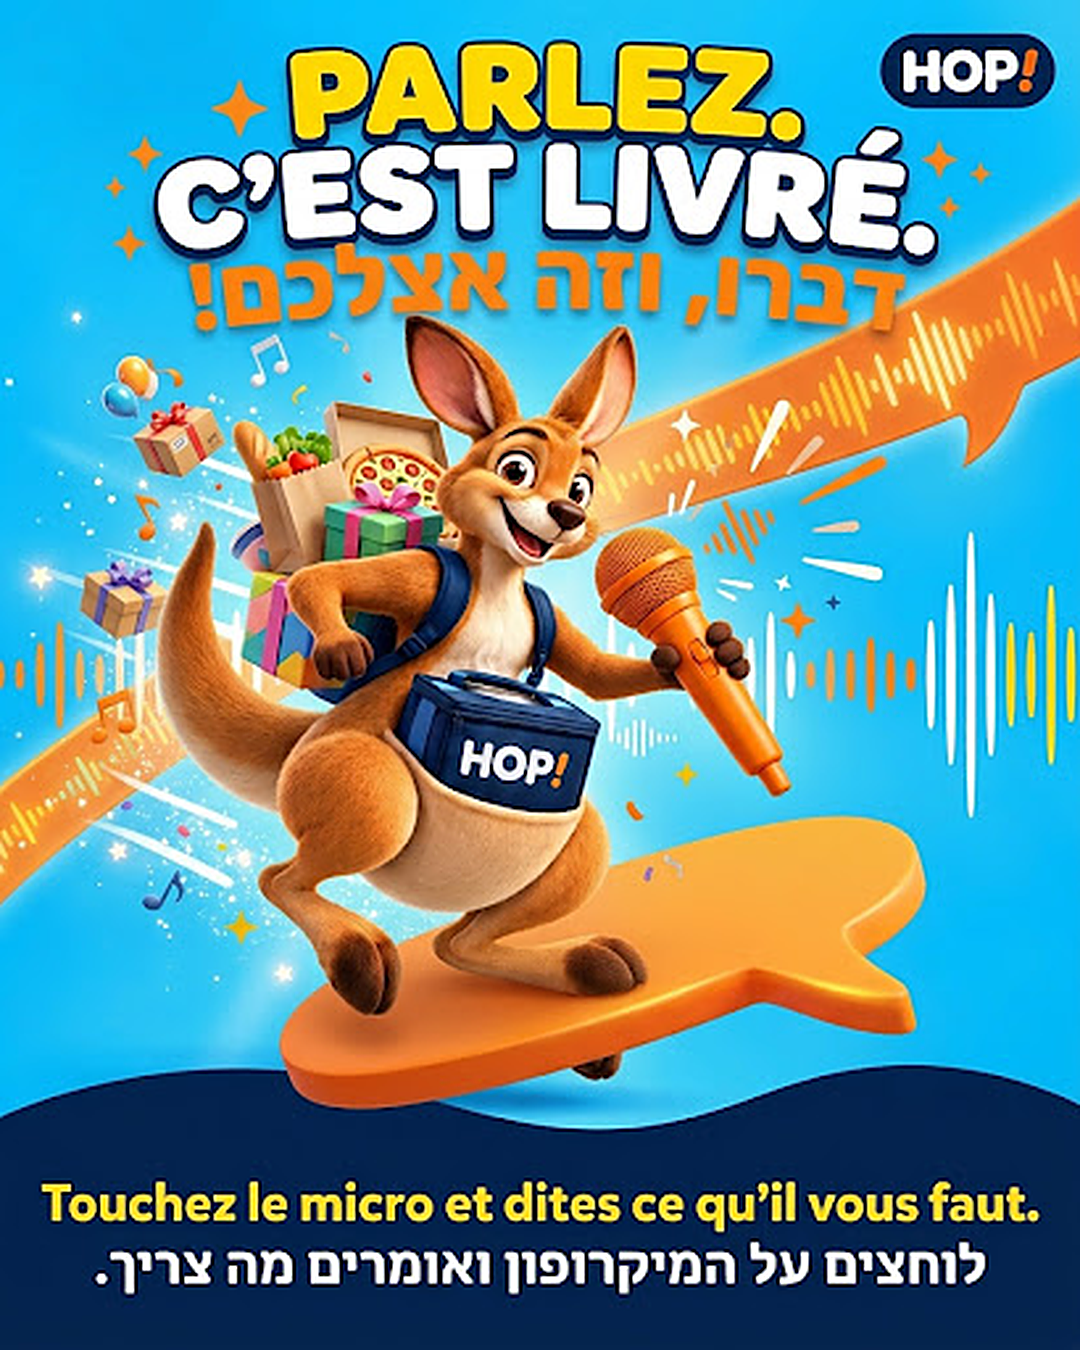
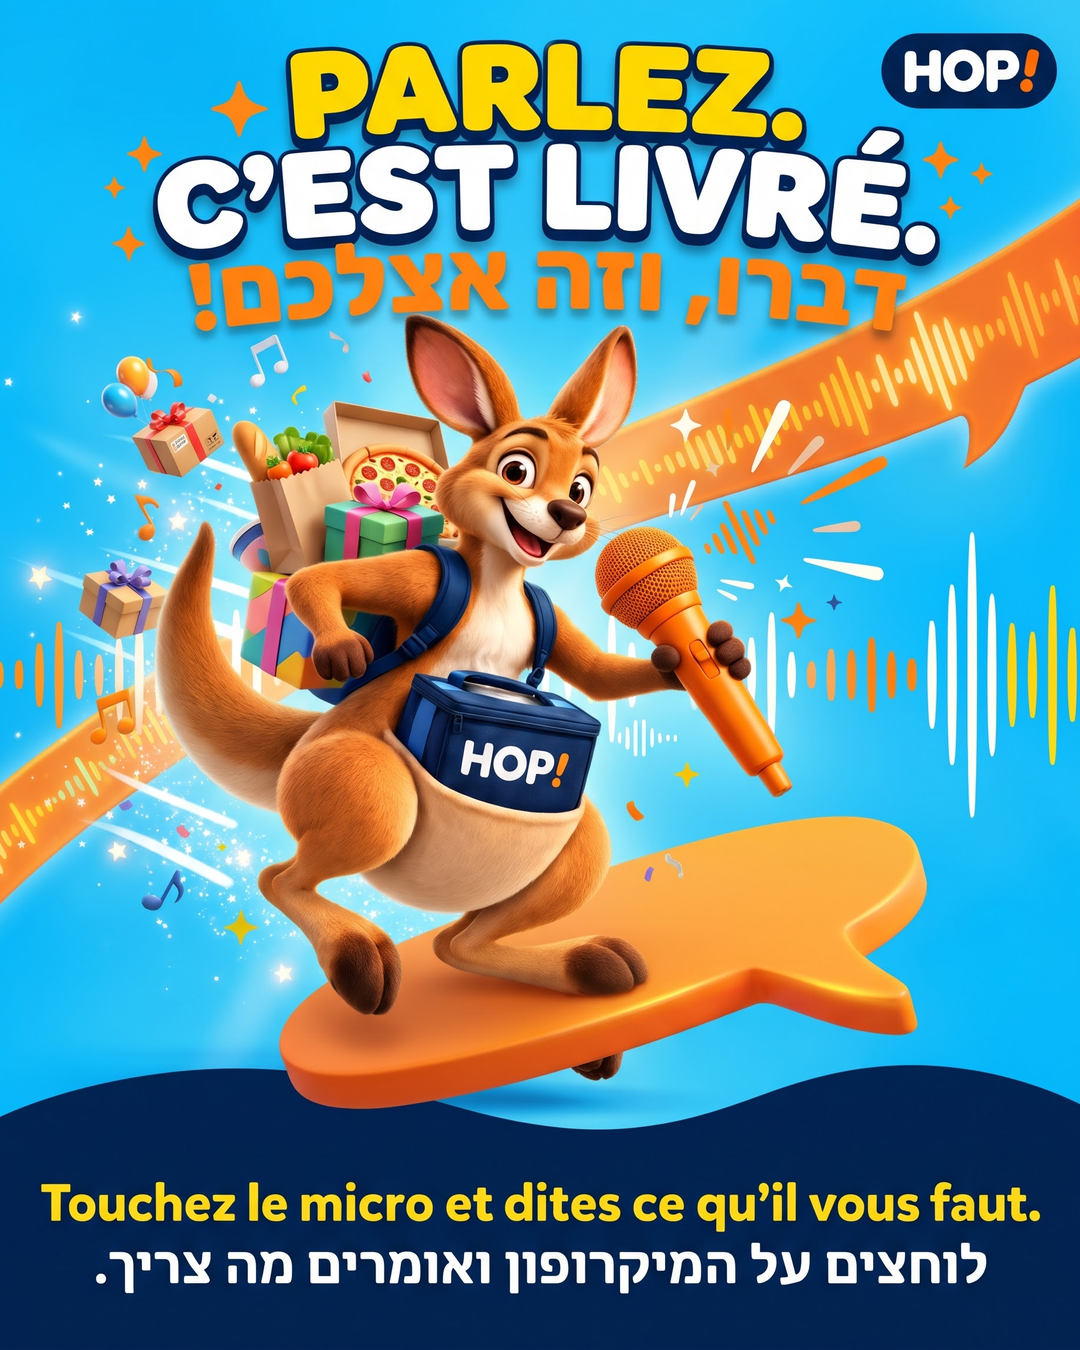
Kit : Parlez c'est livré en grand format + version violette (hébreu corrigé)
Claude-Session: https://claude.ai/code/session_01HjyNE8jb2CVL8HhFoocmFa

diff --git a/livraison/kit.js b/livraison/kit.js
@@ -614,6 +614,7 @@ const CAPS = {
   "hoppy-vocal": {
     fr: `🎙 Parlez. C'est livré.\nTouchez le micro dans l'appli et dites ce qu'il vous faut : « une pizza pour ce soir », « du lait et du pain »… on s'occupe du reste.\n🛵 Livraison partout à Netanya, dès ${delFr} en ville · 📍 Suivi en direct\n👉 ${APP_URL}\n${TAGS.fr} #commandevocale`,
     he: `🎙 דברו, וזה אצלכם!\nלוחצים על המיקרופון באפליקציה ואומרים מה צריך: "פיצה להערב", "חלב ולחם"… ואנחנו דואגים לשאר.\n🛵 משלוחים בכל נתניה, החל מ־${delFr} בעיר · 📍 מעקב בזמן אמת\n👈 ${APP_URL}?lang=he\n${TAGS.he}` },
+  get "hoppy-vocal2"() { return this["hoppy-vocal"]; },
   "hoppy-netanya": {
     fr: `🦘 On livre tout Netanya !\nCourses, restos, pharmacie, colis, cadeaux… Hoppy apporte tout, au plus vite.\n🛵 Dès ${delFr} en ville · 📍 Suivi en direct\n👉 ${APP_URL}\n${TAGS.fr}`,
     he: `🦘 מביאים לכם הכול בנתניה!\nקניות, מסעדות, בית מרקחת, חבילות, מתנות… הופי מביא הכול, הכי מהר.\n🛵 החל מ־${delFr} בעיר · 📍 מעקב בזמן אמת\n👈 ${APP_URL}?lang=he\n${TAGS.he}` },
@@ -740,6 +741,7 @@ const V = "kit/visuels/";
 const CAMPS = [
   // Visuels faits par le patron avec Gemini (15/11) : français et hébreu sur la même image
   { id: "hoppy-vocal", aud: "client", isNew: true, nolang: "Français et hébreu sur la même image", thumb: "post", title: "🎙 Parlez. C'est livré.", desc: "Hoppy et son micro : on commande en parlant, il suffit de toucher le micro et de dire ce qu'il vous faut. Français et hébreu sur la même image.", formats: ["post"] },
+  { id: "hoppy-vocal2", aud: "client", isNew: true, nolang: "Français et hébreu sur la même image", thumb: "post", title: "🎤 Parlez. C'est livré. (version violette)", desc: "La même pub en style « street » violet et jaune, plus percutante pour TikTok et les stories. Français et hébreu sur la même image.", formats: ["post"] },
   { id: "hoppy-netanya", aud: "client", isNew: true, nolang: "Français et hébreu sur la même image", thumb: "post", title: "🦘 On livre tout Netanya", desc: "Hoppy les bras pleins (courses, pizza, cadeaux, colis) : courses, restos, pharmacie, colis… dès 25 ₪ en ville. Français et hébreu sur la même image.", formats: ["post"] },
   { id: "hoppy-francais", aud: "client", isNew: true, nolang: "Français et hébreu sur la même image", thumb: "post", title: "🥖 La livraison en français", desc: "Hoppy, sa baguette et ses croissants : tout Netanya livré, en français et en hébreu. Idéal pour les groupes francophones. Français et hébreu sur la même image.", formats: ["post"] },
   // Demandés par le patron le 04/11 : en tête du kit

diff --git a/livraison/coursier.html b/livraison/coursier.html
@@ -53,9 +53,9 @@
       window.addEventListener("load", function () { if (first) later(); });
     })();
   </script>
-  <script src="coursier-lang.js?v=202611150627"></script>
+  <script src="coursier-lang.js?v=202611150632"></script>
   <link rel="stylesheet" href="https://cdnjs.cloudflare.com/ajax/libs/leaflet/1.9.4/leaflet.min.css" />
-  <link rel="stylesheet" href="styles.css?v=202611150627" />
+  <link rel="stylesheet" href="styles.css?v=202611150632" />
 <style id="splashCss">#splash{position:fixed;inset:0;z-index:99999;display:flex;flex-direction:column;align-items:center;justify-content:center;gap:18px;background:#0F1F3D;color:#fff;transition:opacity .35s ease}#splash.out{opacity:0;pointer-events:none}#splash svg{width:min(58vw,300px);height:auto;display:block}#splash span{font:700 16px/1 Rubik,-apple-system,Arial,sans-serif;letter-spacing:.42em;margin-inline-start:.42em;opacity:.92}</style>
 </head>
 <body>
@@ -297,14 +297,14 @@
 
 <script src="https://cdnjs.cloudflare.com/ajax/libs/leaflet/1.9.4/leaflet.min.js"></script>
 <script src="https://cdnjs.cloudflare.com/ajax/libs/qrcodejs/1.0.0/qrcode.min.js"></script>
-<script src="config.js?v=202611150627"></script>
-<script src="i18n.js?v=202611150627"></script>
-<script src="pricing.js?v=202611150627"></script>
-<script src="store.js?v=202611150627"></script>
-<script src="chat.js?v=202611150627"></script>
-<script src="common.js?v=202611150627"></script>
-<script src="badge.js?v=202611150627"></script>
-<script src="coursier.js?v=202611150627"></script>
+<script src="config.js?v=202611150632"></script>
+<script src="i18n.js?v=202611150632"></script>
+<script src="pricing.js?v=202611150632"></script>
+<script src="store.js?v=202611150632"></script>
+<script src="chat.js?v=202611150632"></script>
+<script src="common.js?v=202611150632"></script>
+<script src="badge.js?v=202611150632"></script>
+<script src="coursier.js?v=202611150632"></script>
 <script>(function(){var s=document.getElementById("splash");if(!s)return;var t0=Date.now();function off(){var w=Math.max(0,650-(Date.now()-t0));setTimeout(function(){s.classList.add("out");setTimeout(function(){s.remove()},400)},w)}if(document.readyState==="complete")off();else addEventListener("load",off);setTimeout(off,3500)})();</script>
 </body>
 </html>

diff --git a/livraison/admin.html b/livraison/admin.html
@@ -54,7 +54,7 @@
       window.addEventListener("load", function () { if (first) later(); });
     })();
   </script>
-  <link rel="stylesheet" href="styles.css?v=202611150627" />
+  <link rel="stylesheet" href="styles.css?v=202611150632" />
 <style id="splashCss">#splash{position:fixed;inset:0;z-index:99999;display:flex;flex-direction:column;align-items:center;justify-content:center;gap:18px;background:#0F1F3D;color:#fff;transition:opacity .35s ease}#splash.out{opacity:0;pointer-events:none}#splash svg{width:min(58vw,300px);height:auto;display:block}#splash span{font:700 16px/1 Rubik,-apple-system,Arial,sans-serif;letter-spacing:.42em;margin-inline-start:.42em;opacity:.92}</style>
 </head>
 <body>
@@ -189,15 +189,15 @@
 </div>
 
 <script src="https://cdnjs.cloudflare.com/ajax/libs/leaflet/1.9.4/leaflet.min.js"></script>
-<script src="config.js?v=202611150627"></script>
-<script src="i18n.js?v=202611150627"></script>
-<script src="pricing.js?v=202611150627"></script>
-<script src="store.js?v=202611150627"></script>
-<script src="chat.js?v=202611150627"></script>
-<script src="common.js?v=202611150627"></script>
-<script src="places.js?v=202611150627"></script>
-<script src="rayons.js?v=202611150627"></script>
-<script src="admin.js?v=202611150627"></script>
+<script src="config.js?v=202611150632"></script>
+<script src="i18n.js?v=202611150632"></script>
+<script src="pricing.js?v=202611150632"></script>
+<script src="store.js?v=202611150632"></script>
+<script src="chat.js?v=202611150632"></script>
+<script src="common.js?v=202611150632"></script>
+<script src="places.js?v=202611150632"></script>
+<script src="rayons.js?v=202611150632"></script>
+<script src="admin.js?v=202611150632"></script>
 <script>(function(){var s=document.getElementById("splash");if(!s)return;var t0=Date.now();function off(){var w=Math.max(0,650-(Date.now()-t0));setTimeout(function(){s.classList.add("out");setTimeout(function(){s.remove()},400)},w)}if(document.readyState==="complete")off();else addEventListener("load",off);setTimeout(off,3500)})();</script>
 </body>
 </html>

diff --git a/livraison/index.html b/livraison/index.html
@@ -96,7 +96,7 @@
       } catch (e) { /* ignore */ }
     })();
   </script>
-  <link rel="stylesheet" href="styles.css?v=202611150627" />
+  <link rel="stylesheet" href="styles.css?v=202611150632" />
 <style id="splashCss">#splash{position:fixed;inset:0;z-index:99999;display:flex;flex-direction:column;align-items:center;justify-content:center;gap:18px;background:#0F1F3D;color:#fff;transition:opacity .35s ease}#splash.out{opacity:0;pointer-events:none}#splash svg{width:min(58vw,300px);height:auto;display:block}#splash span{font:700 16px/1 Rubik,-apple-system,Arial,sans-serif;letter-spacing:.42em;margin-inline-start:.42em;opacity:.92}</style>
 </head>
 <body>
@@ -844,16 +844,16 @@
 </div>
 
 <script src="https://cdnjs.cloudflare.com/ajax/libs/leaflet/1.9.4/leaflet.min.js"></script>
-<script src="config.js?v=202611150627"></script>
-<script src="i18n.js?v=202611150627"></script>
-<script src="pricing.js?v=202611150627"></script>
-<script src="store.js?v=202611150627"></script>
-<script src="chat.js?v=202611150627"></script>
-<script src="common.js?v=202611150627"></script>
-<script src="enseignes.js?v=202611150627"></script>
-<script src="places.js?v=202611150627"></script>
-<script src="rayons.js?v=202611150627"></script>
-<script src="client.js?v=202611150627"></script>
+<script src="config.js?v=202611150632"></script>
+<script src="i18n.js?v=202611150632"></script>
+<script src="pricing.js?v=202611150632"></script>
+<script src="store.js?v=202611150632"></script>
+<script src="chat.js?v=202611150632"></script>
+<script src="common.js?v=202611150632"></script>
+<script src="enseignes.js?v=202611150632"></script>
+<script src="places.js?v=202611150632"></script>
+<script src="rayons.js?v=202611150632"></script>
+<script src="client.js?v=202611150632"></script>
 <script>(function(){var s=document.getElementById("splash");if(!s)return;var t0=Date.now();function off(){var w=0;setTimeout(function(){s.classList.add("out");setTimeout(function(){s.remove()},400)},w)}off()})();</script>
 </body>
 </html>

diff --git a/livraison/commerce.html b/livraison/commerce.html
@@ -73,7 +73,7 @@
       window.addEventListener("load", function () { if (first) later(); });
     })();
   </script>
-  <link rel="stylesheet" href="styles.css?v=202611150627" />
+  <link rel="stylesheet" href="styles.css?v=202611150632" />
 </head>
 <body>
 
@@ -190,13 +190,13 @@
 <button type="button" class="wa-fab chat-fab" id="waFab"><span>💬</span><b data-i18n="chatFab"></b><i class="chat-badge hidden" id="fabBadge"></i></button>
 
 <script src="https://cdnjs.cloudflare.com/ajax/libs/qrcodejs/1.0.0/qrcode.min.js"></script>
-<script src="config.js?v=202611150627"></script>
-<script src="i18n.js?v=202611150627"></script>
-<script src="pricing.js?v=202611150627"></script>
-<script src="store.js?v=202611150627"></script>
-<script src="chat.js?v=202611150627"></script>
-<script src="common.js?v=202611150627"></script>
-<script src="places.js?v=202611150627"></script>
-<script src="commerce.js?v=202611150627"></script>
+<script src="config.js?v=202611150632"></script>
+<script src="i18n.js?v=202611150632"></script>
+<script src="pricing.js?v=202611150632"></script>
+<script src="store.js?v=202611150632"></script>
+<script src="chat.js?v=202611150632"></script>
+<script src="common.js?v=202611150632"></script>
+<script src="places.js?v=202611150632"></script>
+<script src="commerce.js?v=202611150632"></script>
 </body>
 </html>

diff --git a/livraison/bienvenue.html b/livraison/bienvenue.html
@@ -15,7 +15,7 @@
   <link rel="preconnect" href="https://fonts.googleapis.com" />
   <link rel="preconnect" href="https://fonts.gstatic.com" crossorigin />
   <link href="https://fonts.googleapis.com/css2?family=Fredoka:wght@500;600;700&family=Rubik:wght@400;500;600;700;800&display=swap" rel="stylesheet" />
-  <link rel="stylesheet" href="styles.css?v=202611150627" />
+  <link rel="stylesheet" href="styles.css?v=202611150632" />
   <script>
     // Nouveau design (validé par le patron) : pour tout le monde ; ?design=1 garde l'ancien sur ce téléphone, ?design=2 revient au nouveau
     try { var dq = new URLSearchParams(location.search).get("design");
@@ -70,11 +70,11 @@
 
 <div class="ol-bar"><a class="btn btn-primary btn-lg" href="index.html" id="bvGo"></a></div>
 
-<script src="config.js?v=202611150627"></script>
-<script src="i18n.js?v=202611150627"></script>
-<script src="pricing.js?v=202611150627"></script>
-<script src="store.js?v=202611150627"></script>
-<script src="common.js?v=202611150627"></script>
+<script src="config.js?v=202611150632"></script>
+<script src="i18n.js?v=202611150632"></script>
+<script src="pricing.js?v=202611150632"></script>
+<script src="store.js?v=202611150632"></script>
+<script src="common.js?v=202611150632"></script>
 <script>
 (function () {
   "use strict";

diff --git a/livraison/suivi.html b/livraison/suivi.html
@@ -45,7 +45,7 @@
       window.addEventListener("load", function () { if (first) later(); });
     })();
   </script>
-  <link rel="stylesheet" href="styles.css?v=202611150627" />
+  <link rel="stylesheet" href="styles.css?v=202611150632" />
   <script>
     // Nouveau design (validé par le patron) : pour tout le monde ; ?design=1 garde l'ancien sur ce téléphone, ?design=2 revient au nouveau
     try { var dq = new URLSearchParams(location.search).get("design");
@@ -154,12 +154,12 @@
 </div>
 
 <script src="https://cdnjs.cloudflare.com/ajax/libs/leaflet/1.9.4/leaflet.min.js"></script>
-<script src="config.js?v=202611150627"></script>
-<script src="i18n.js?v=202611150627"></script>
-<script src="pricing.js?v=202611150627"></script>
-<script src="store.js?v=202611150627"></script>
-  <script src="chat.js?v=202611150627"></script>
-<script src="common.js?v=202611150627"></script>
-<script src="suivi.js?v=202611150627"></script>
+<script src="config.js?v=202611150632"></script>
+<script src="i18n.js?v=202611150632"></script>
+<script src="pricing.js?v=202611150632"></script>
+<script src="store.js?v=202611150632"></script>
+  <script src="chat.js?v=202611150632"></script>
+<script src="common.js?v=202611150632"></script>
+<script src="suivi.js?v=202611150632"></script>
 </body>
 </html>

diff --git a/livraison/badge.html b/livraison/badge.html
@@ -10,7 +10,7 @@
   <link rel="preconnect" href="https://fonts.googleapis.com" />
   <link rel="preconnect" href="https://fonts.gstatic.com" crossorigin />
   <link href="https://fonts.googleapis.com/css2?family=Fredoka:wght@500;600;700&family=Rubik:wght@400;500;600;700;800&display=swap" rel="stylesheet" />
-  <link rel="stylesheet" href="styles.css?v=202611150627" />
+  <link rel="stylesheet" href="styles.css?v=202611150632" />
   <style>
     body { background: #0F1F3D; color: #fff; min-height: 100vh; font-family: Rubik, sans-serif; }
     .bd-page { max-width: 460px; margin: 0 auto; padding: 32px 16px; text-align: center; }
@@ -26,7 +26,7 @@
     <p>Chaque livreur débloque un badge à 1, 10, 25, 50, 100, 250, 500 et 1 000 courses livrées. Il s'affiche une fois dans l'appli HOP! Livreur, puis reste dans « Statistiques ». Touchez une médaille pour la voir.</p>
     <div class="bdg-row" id="row"></div>
   </main>
-  <script src="badge.js?v=202611150627"></script>
+  <script src="badge.js?v=202611150632"></script>
   <script>
     const row = document.getElementById("row");
     row.innerHTML = Badge.MILESTONES.map(m => `<button type="button" data-n="${m.n}">${Badge.medal(m.n)}<span>${m.tier}</span></button>`).join("");

diff --git a/livraison/on-livre.html b/livraison/on-livre.html
@@ -13,7 +13,7 @@
   <link rel="preconnect" href="https://fonts.googleapis.com" />
   <link rel="preconnect" href="https://fonts.gstatic.com" crossorigin />
   <link href="https://fonts.googleapis.com/css2?family=Fredoka:wght@500;600;700&family=Rubik:wght@400;500;600;700;800&display=swap" rel="stylesheet" />
-  <link rel="stylesheet" href="styles.css?v=202611150627" />
+  <link rel="stylesheet" href="styles.css?v=202611150632" />
   <script>
     // Nouveau design (validé par le patron) : pour tout le monde ; ?design=1 garde l'ancien sur ce téléphone, ?design=2 revient au nouveau
     try { var dq = new URLSearchParams(location.search).get("design");
@@ -61,10 +61,10 @@
 
 <div class="ol-bar"><a class="btn btn-primary btn-lg" href="index.html" id="olGo"></a></div>
 
-<script src="config.js?v=202611150627"></script>
-<script src="i18n.js?v=202611150627"></script>
-<script src="pricing.js?v=202611150627"></script>
-<script src="common.js?v=202611150627"></script>
+<script src="config.js?v=202611150632"></script>
+<script src="i18n.js?v=202611150632"></script>
+<script src="pricing.js?v=202611150632"></script>
+<script src="common.js?v=202611150632"></script>
 <script>
 (function () {
   "use strict";

diff --git a/livraison/kit.html b/livraison/kit.html
@@ -12,7 +12,7 @@
   <link rel="preconnect" href="https://fonts.googleapis.com" />
   <link rel="preconnect" href="https://fonts.gstatic.com" crossorigin />
   <link href="https://fonts.googleapis.com/css2?family=Fredoka:wght@500;600;700&family=Rubik:wght@400;500;600;700;800&display=swap" rel="stylesheet" />
-  <link rel="stylesheet" href="styles.css?v=202611150627" />
+  <link rel="stylesheet" href="styles.css?v=202611150632" />
 </head>
 <body class="kit-page">
 
@@ -179,10 +179,10 @@
 </div>
 
 <script src="https://cdnjs.cloudflare.com/ajax/libs/qrcodejs/1.0.0/qrcode.min.js"></script>
-<script src="config.js?v=202611150627"></script>
-<script src="i18n.js?v=202611150627"></script>
-<script src="pricing.js?v=202611150627"></script>
-<script src="common.js?v=202611150627"></script>
-<script src="kit.js?v=202611150627"></script>
+<script src="config.js?v=202611150632"></script>
+<script src="i18n.js?v=202611150632"></script>
+<script src="pricing.js?v=202611150632"></script>
+<script src="common.js?v=202611150632"></script>
+<script src="kit.js?v=202611150632"></script>
 </body>
 </html>

diff --git a/livraison/recu.html b/livraison/recu.html
@@ -43,7 +43,7 @@
       window.addEventListener("load", function () { if (first) later(); });
     })();
   </script>
-  <link rel="stylesheet" href="styles.css?v=202611150627" />
+  <link rel="stylesheet" href="styles.css?v=202611150632" />
 </head>
 <body class="receipt-page">
   <main class="wrap narrow" style="padding:20px 16px 40px">
@@ -53,11 +53,11 @@
       <a class="btn" href="index.html#mes-courses">← Retour · חזרה</a>
     </div>
   </main>
-  <script src="config.js?v=202611150627"></script>
-  <script src="i18n.js?v=202611150627"></script>
-  <script src="pricing.js?v=202611150627"></script>
-  <script src="store.js?v=202611150627"></script>
-  <script src="common.js?v=202611150627"></script>
-  <script src="recu.js?v=202611150627"></script>
+  <script src="config.js?v=202611150632"></script>
+  <script src="i18n.js?v=202611150632"></script>
+  <script src="pricing.js?v=202611150632"></script>
+  <script src="store.js?v=202611150632"></script>
+  <script src="common.js?v=202611150632"></script>
+  <script src="recu.js?v=202611150632"></script>
 </body>
 </html>

diff --git a/livraison/autocollant.html b/livraison/autocollant.html
@@ -89,7 +89,7 @@
 </div></div>
 
 <script src="https://cdnjs.cloudflare.com/ajax/libs/qrcodejs/1.0.0/qrcode.min.js"></script>
-<script src="config.js?v=202611150627"></script>
+<script src="config.js?v=202611150632"></script>
 <script>
 (function () {
   "use strict";
